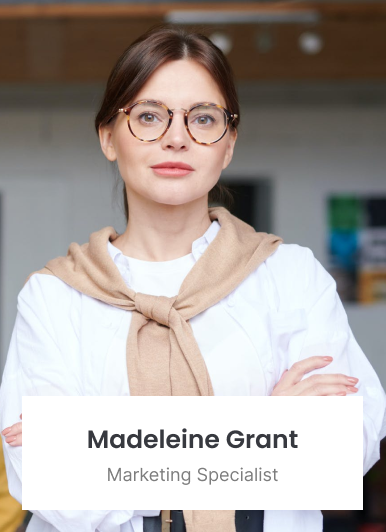
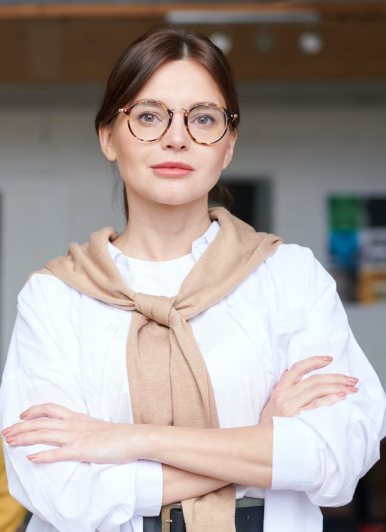
work done

Changed region(s): [[0.0311, 0.7218, 0.9637, 0.9624]]

diff --git a/index.html b/index.html
@@ -1,0 +1,127 @@
+<!DOCTYPE html>
+<html lang="en">
+  <head>
+    <meta charset="UTF-8" />
+    <meta name="viewport" content="width=device-width, initial-scale=1.0" />
+    <title>About Us</title>
+    <link rel="stylesheet" href="reset.css" />
+    <link rel="stylesheet" href="style.css" />
+    <style>
+      @import url("https://fonts.googleapis.com/css2?family=Inter&display=swap");
+    </style>
+    <style>
+      @import url("https://fonts.googleapis.com/css2?family=Inter&family=Poppins&display=swap");
+    </style>
+  </head>
+  <body>
+    <header>
+      <nav class="nav">
+        <div class="header-items">
+          <div>
+            <a href="#"><img src="img/Logo.svg" alt="" /></a>
+          </div>
+          <div class="menu-items">
+            <a href="#">Home</a>
+            <a href="#">About Us</a>
+            <a href="#">Pages</a>
+            <a href="#">Services</a>
+            <a href="#">Blog</a>
+            <a href="#">Contact Us</a>
+            <div class="menu-consulting-item">
+              <a href="#">GetConsulting</a>
+            </div>
+          </div>
+        </div>
+      </nav>
+    </header>
+    <main>
+      <article>
+        <div class="article-text">
+          <span>Work Process</span>
+          <h1>How We Work</h1>
+        </div>
+      </article>
+
+      <section class="items-section">
+        <div class="items">
+          <span class="items-text-title">Make Appointment</span>
+          <p>
+            Leverage agile frameworks provide synopsishigh level overviews
+            <br />value proposition.
+          </p>
+          <span class="items-section-footer">Testimonials</span>
+          <div class="items-section-icon">
+            <a href="#"><img src="img/Icon-1.svg" alt="" /></a>
+          </div>
+        </div>
+
+        <div class="items">
+          <span class="items-text-title">Make Appointment</span>
+          <p>
+            Leverage agile frameworks provide synopsishigh level overviews
+            <br />value proposition.
+          </p>
+          <span class="items-section-footer">Testimonials</span>
+          <div class="items-section-icon">
+            <a href="#"><img src="img/Icon-1.svg" alt="" /></a>
+          </div>
+        </div>
+
+        <div class="items">
+          <span class="items-text-title">Make Appointment</span>
+          <p>
+            Leverage agile frameworks provide synopsishigh level overviews
+            <br />value proposition.
+          </p>
+          <span class="items-section-footer">Testimonials</span>
+          <div class="items-section-icon">
+            <a href="#"><img src="img/Icon-1.svg" alt="" /></a>
+          </div>
+        </div>
+      </section>
+
+      <section class="section-img">
+        <span class="section-img-title">Shot Video</span>
+        <h1>Our Presentation</h1>
+        <span class="section-img-footer"
+          >Collaboratively administrate channels whereas virtual tailers
+          <br />predominate procedures reliable supply chains.</span
+        >
+        <div class="play-button">
+          <a href="#"><img src="img/Play Buttom.svg" alt="play button" /></a>
+        </div>
+      </section>
+
+      <section class="team-section">
+        <div>
+          <span class="team-title">Our Team</span>
+          <h1 class="team-experts">Meet Our Experts</h1>
+        </div>
+      </section>
+
+      <section class="experts-section">
+        <div class="experts-pics">
+          <a href="#"><img src="img/natasha.png" alt="Natasha" /></a>
+          <div class="experts-title">
+            <h1>Natasha Kelvin</h1>
+            <span>Manahing Director</span>
+          </div>
+        </div>
+        <div class="experts-pics">
+          <a href="#"><img src="img/david.png" alt="David" /></a>
+          <div class="experts-title">
+            <h1>David Simpson</h1>
+            <span>Designer</span>
+          </div>
+        </div>
+        <div class="experts-pics">
+          <a href="#"><img src="img/madeleine.png" alt="madeleine" /></a>
+          <div class="experts-title">
+            <h1>Madeleine Grant</h1>
+            <span>Marketing Specialist</span>
+          </div>
+        </div>
+      </section>
+    </main>
+  </body>
+</html>

diff --git a/style.css b/style.css
@@ -1,0 +1,195 @@
+.nav {
+    margin-top: 60px;
+    display: flex;
+    justify-content: space-around;
+}
+
+.header-items {
+    width: 1220px;
+    display: flex;
+    justify-content: space-between;
+    align-items: center;
+}
+.menu-items {
+    font-weight: 400;
+    font-size: 18px;
+    font-family: 'Inter';
+    display: flex;
+    align-items: center;
+    justify-content: space-around;
+    width: 825px;
+
+ }
+
+ .menu-consulting-item {
+    color: white;
+    font-weight: 400;
+    font-size: 18px;
+    width: 184px;
+    height: 65px;
+    background-color: #6B77E5;
+    align-items: center;
+    display: flex;
+    justify-content: center;
+ }
+
+ /* main-body */
+
+ .article-text {
+    margin-top: 136px;
+    text-align: center;
+ }
+
+ .article-text span {
+    font-weight: 500;
+    size: 18px;
+    font-family: 'Inter';
+ }
+
+ .article-text h1 {
+    font-weight: 700;
+    font-size: 40px;
+    color: #37393F;
+    margin-top: 15px;
+    font-family: 'Poppins';
+ }
+
+ /* items section */
+
+ .items-section {
+    margin-top: 41px;
+    display: flex;
+    justify-content: center;    
+ }
+
+ .items {
+    width: 386px;
+    height: 383px;
+    background-color: #F4F4F4;
+    margin-left: 30px;
+    text-align: center;
+ }
+
+ .items-text-title {
+    font-weight: 600;
+    font-size: 25px;
+    font-family: 'Poppins';
+    color: #37393F;
+    position: relative;
+    top: 8%;
+ }
+
+ .items-section p{
+    font-weight: 400;
+    font-size: 18px;
+    font-family: 'Inter';
+    position: relative;
+    top: 15%;
+ }
+
+ .items-section-footer {
+    font-weight: 600;
+    font-size: 18px;
+    font-family: 'Inter';
+    color: #6B77E5;
+    position: relative;
+    top: 25%;
+ }
+
+ .items-section-icon {
+    position: relative;
+    top: 30%;
+ }
+
+ .section-img {
+    margin-top: 60px;
+    background-image: url(img/Image.png);
+    height: 557px;
+    text-align: center;
+ }
+ .section-img-title {
+    position: relative;
+    top: 30%;
+ }
+
+ .section-img h1 {
+    font-weight: 700;
+    font-size: 40px;
+    font-family: 'Poppins';
+    position: relative;
+    top: 30%;
+ }
+ .section-img-footer {
+    font-weight: 400;
+    font-size: 18px;
+    font-family: 'Inter';
+    color: #37393F;
+    position: relative;
+    top: 40%;
+ }
+
+ .play-button {
+    position: relative;
+    top: 50%;
+ }
+
+ /* our team */
+
+ .team-section {
+    text-align: center;
+    margin-top: 130px;
+ }
+ .team-title {
+    font-weight: 500;
+    font-size: 18px;
+    font-family: 'Inter';
+    color: #37393F;
+ }
+ .team-experts {
+    font-weight: 700;
+    font-size: 40px;
+    font-family: 'Poppins';
+    color: #37393F;
+ }
+
+ .experts-section {
+    margin-top: 41px;
+    display: flex;
+    justify-content: center;
+ }
+
+ .experts-pics {
+    margin-left: 31px;
+ }
+ .experts-title {
+    background-color: #FFFFFF;
+    text-align: center;
+    width: 341px;
+    height: 114px;
+    position: relative;
+    bottom: 22%;
+    left: 6%;
+ }
+
+.experts-title h1 {
+    font-weight: 600;
+    font-size: 25px;
+    font-family: 'Poppins';
+    color: #37393F;
+    position: relative;
+    top: 20%;
+}
+
+.experts-title span {
+    font-weight: 400;
+    font-size: 18px;
+    font-family: 'Inter';
+    color: #7D7D7D;
+    position: relative;
+    top: 25%;
+}
+
+
+
+
+

diff --git a/reset.css b/reset.css
@@ -1,0 +1,19 @@
+* {
+    margin: 0;
+    padding: 0;
+}
+
+ul, ol {
+    list-style-type: none;
+}
+
+a {
+    text-decoration: none;
+    color: unset;
+}
+
+img {
+    max-width: 100%;
+    height: auto;
+    object-fit: cover;
+}
